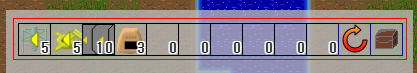
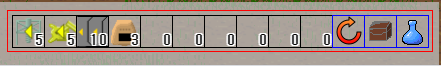
Update README.md

diff --git a/README.md b/README.md
@@ -18,19 +18,18 @@ Mozilla Development Network itself has a [WebAssembly tutorial](https://develope
 which is extremely easy to get started.
 
 
-How to play
------------
+## How to play
 
 If you have played Factorio, it should be straightforward.
 It is similar to Factorio's god mode, where there is no physical player but you can manipulate buildings directly.
 
-* Cursor
+### Cursor
 
 ![cursor](readme-img/cursor.png)
 
 This indicates a tile under the mouse cursor.
 
-* Harvesting
+### Harvesting
 
 Right clicking on a building or ore harvests it.
 If it was an ore deposit, it takes some time to mine an ore.
@@ -38,13 +37,13 @@ The progress of mining is shown as a progress bar on top of the cursor.
 
 ![harvesting](readme-img/harvesting.png)
 
-* Tool belt customization
+### Tool belt customization
 
 Initially, the tool belt has 4 items, but you can customize it by selecting an item from your inventory and clicking on one of the tool belt slots.
 
 ![initial-toolbelt](readme-img/initial-toolbelt.png)
 
-* Selecting and placing buildings
+### Selecting and placing buildings
 
 If you point your mouse cursor on one of the items on the the tool belt, it shows pop-up windows
 
@@ -60,7 +59,7 @@ With a tool belt item selected, you can put your mouse cursor on the screen to p
 
 Left-clicking will place the building.
 
-* Directions
+### Directions
 
 Some buildings have directions. It can affect behavior of certain buildings. For example, transport belts carry items towards the direction, an ore miner outputs mined ores to this direction, an inserter picks up item from opposite side of the direction and puts on the indicated side, etc.
 You can rotate current direction by hitting R key or clicking the button below.
@@ -72,7 +71,7 @@ You can see the current direction on the tool belt.
 ![building-left](readme-img/building-left.png)
 ![building-up](readme-img/building-up.png)
 
-* Open inventory
+### Open inventory
 
 Clicking a button below or hitting E key will show the inventory window.
 
@@ -82,7 +81,7 @@ Inventory window looks like below.
 
 ![player-inventory-window](readme-img/player-inventory-window.png)
 
-* Getting/putting items from/to buildings
+### Getting/putting items from/to buildings
 
 You can left-click to open the inventory window of some types of buildings.
 
@@ -91,7 +90,7 @@ You can left-click to open the inventory window of some types of buildings.
 You can drag items between the building inventory and player inventory to transport items.
 Or, if you use touch pad, you can tap one item and tap an empty space of the other inventry.
 
-* Electricity
+### Electricity
 
 An assembler needs electricity to operate. You need to set up water well, boiler and steam engine to
 generate electricity.
@@ -106,7 +105,7 @@ Steam Engine: ![steam engine](readme-img/steam-engine.png)
 Pipe: ![pipe](readme-img/pipe.png)
 
 
-* Setting a recipe for an assembler
+### Setting a recipe for an assembler
 
 An assembler has a special button in its inventory window.
 This is a button to select a recipe for this assembler.
@@ -126,6 +125,37 @@ You need at least some supply chain like below.
 
 ![basic-setup](readme-img/basic-setup.png)
 
+
+### Technology and Researching
+
+Some items and structures need researching technologies before they can be used.
+
+You can configure researching by the "Research" button on the tool belt or 'T' key.
+
+![research-button](readme-img/research-button.png)
+
+It will bring up a window below.
+
+![research-window](readme-img/research-window.png)
+
+Hovering mouse cursor on one of the items in research items shows a
+tooltip like below.
+It shows required items and a list of items and structures that will be
+unlocked once this technology is researched.
+
+![research-tooltip](readme-img/research-tooltip.png)
+
+Clickon on the research item will select it.
+Selected research will be shown in the Research window along with its progress.
+
+![research-selected](readme-img/research-selected.png)
+
+You need to put a Lab structure and insert science packs into it to proceed on research.
+
+![lab](readme-img/lab.png)
+
+Re-selecting another research during an ongoing research will retain the progress
+at that time in the background and you can resume when you select it again.
 
 ## Prerequisites
 
